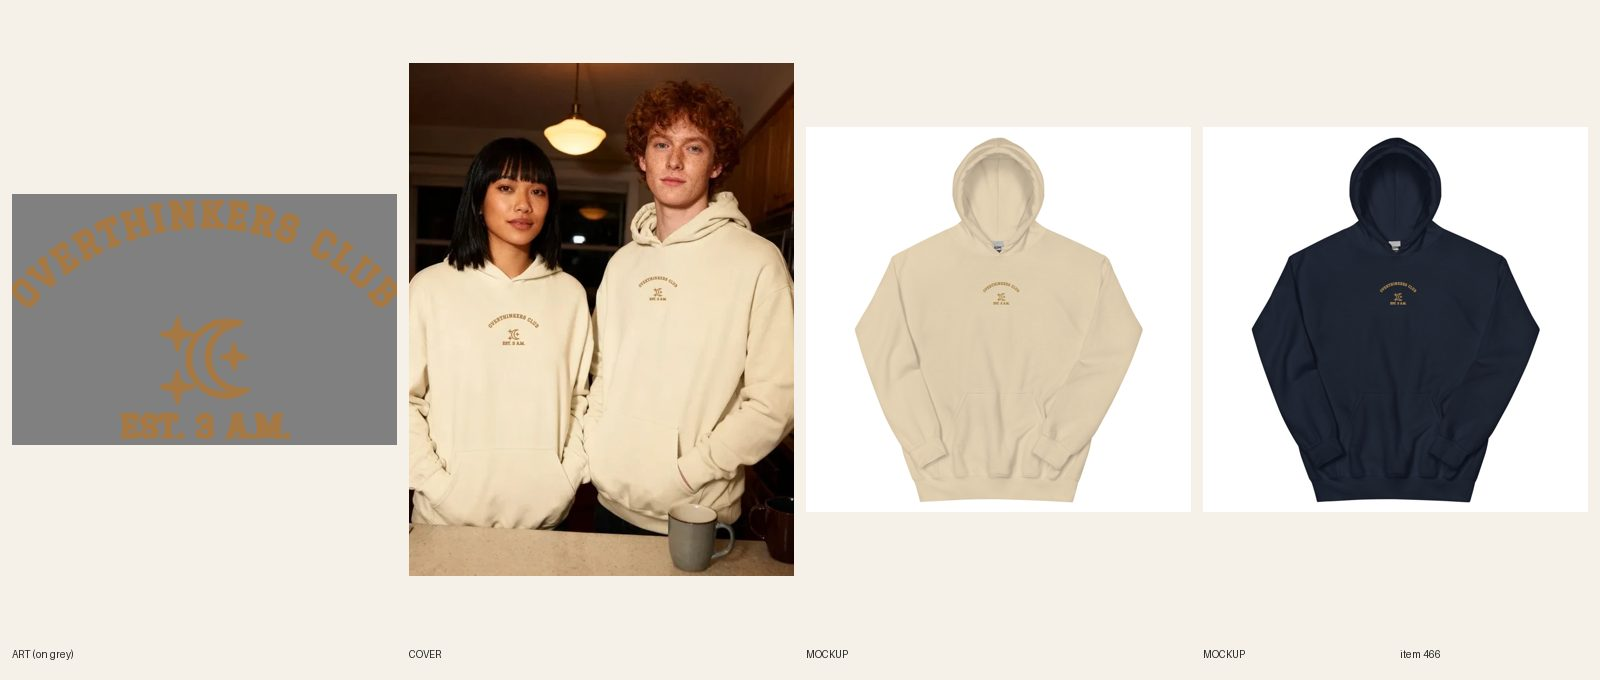
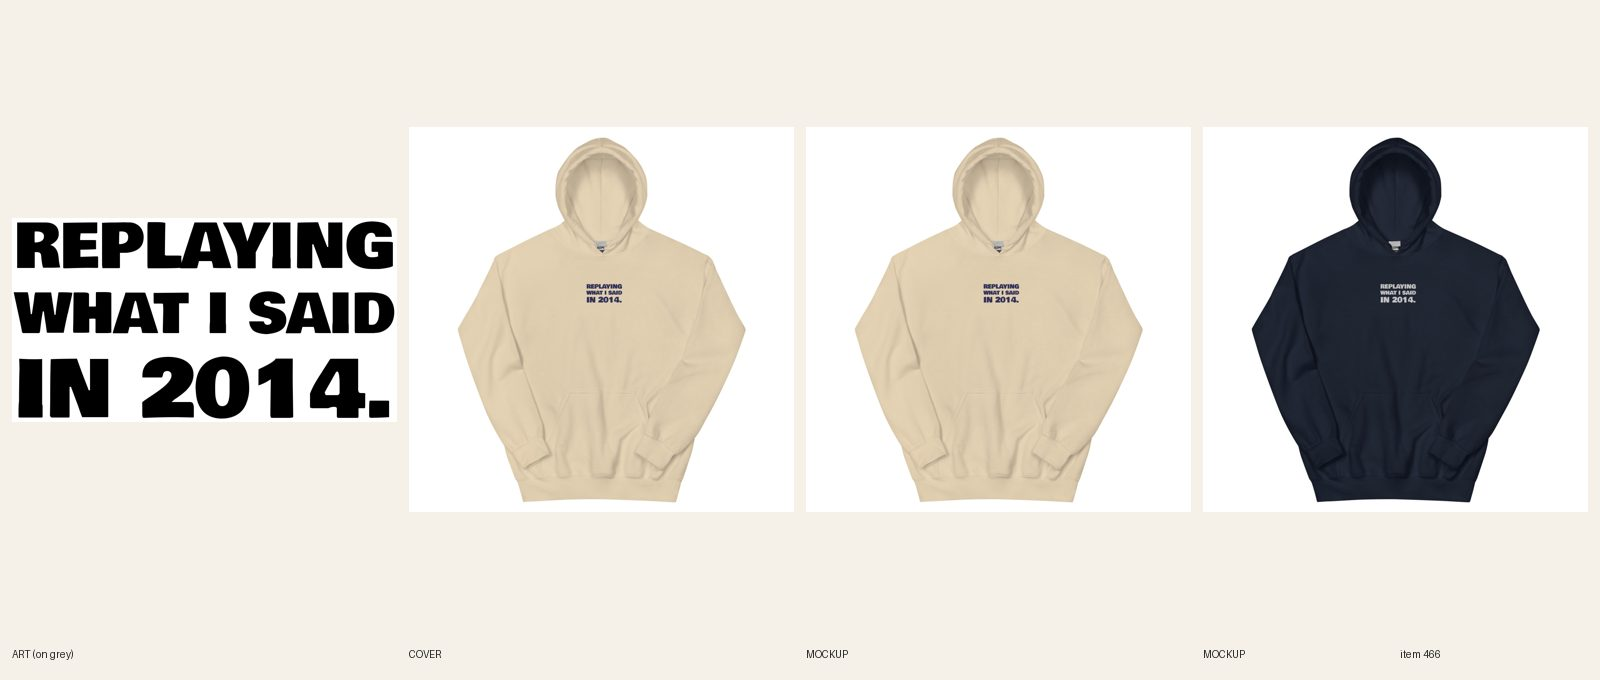
[E] review 466 redid #466 Unisex Embroidered hoodie (line + type: REPLAYING / WHAT I SAID / IN 2014., new stitched lettering, Sand navy thread + Navy white thread, 12/12 synced). REVIEW. fal $0.

Changed region(s): [[0.0, 0.0926, 0.5, 0.8647], [0.8438, 0.4015, 0.9062, 0.4632], [0.5938, 0.4015, 0.6562, 0.4632]]

diff --git a/docs/pipeline/466-embroidered-hoodie-overthinkers-club.md b/docs/pipeline/466-embroidered-hoodie-overthinkers-club.md
@@ -1,4 +1,4 @@
-status: REDO
+status: REVIEW
 lane: E
 type: new
 id: 466
@@ -35,3 +35,4 @@ kd: 30
 - 2026-10-18 00:29 UTC director: LIVE. Old-gold thread reads on Sand and Navy, embroidery shown at true scale on the cover, both people in hoodies. Keyword map entry moved under products (it sat at the top level, so the audit could not see it). ACTIVE + Online Store/Headless/Google & YouTube, audit PASS 0 warn.
 - 2026-10-18 09:30 UTC builder [B]: re-linked to the R4.8 file 1088770660 (EST. 3 A.M. 0.35 in caps, from #467), synced 12/12 on 482519619; Sand/Navy front + Sand back Shopify images replaced in place with new mockups. Cover not re-composited (old print visually the same at cover size). Stays ACTIVE.
 - 2026-10-18 17:22 UTC director: QUALITY RESET grade C (new line + type), REDO. The product stays ACTIVE (same handle, URL, title keyword). 1. Line (R3.12, quality-reset 'Lines'): "OVERTHINKERS CLUB / EST. 3 A.M.": Stock "club" line, widely sold; no surprise. Write 5 candidates, keep the one a stranger laughs at in 3 seconds without backstory; kill lines that only describe the picture; if none of the 5 is funny, PARK it. 2. Quality reset type bar (docs/backlog/quality-reset.md, 'The new bar'): headline at least 90% of the art width, heavy, colors pulled from the art; second line at least 45% of the headline's height, never a thin script on a dark or mid garment; use the lettering as a shape (arch, stacked lockup, words breaking into the art), not a plain bar above and a script line below; no font used on more than 1 in 6 of the last 30 designs. 3. Keep the art if it carries the new line, else one new illustration (R4/R5). New print means a new cover per R6.10, copy line one rewritten for the new joke (R8.3), and a fresh review sheet (R7.7). While quality-reset.md says PAUSED, only lane A builds, and only the samples step 2 names.
+- 2026-10-20 06:30 UTC builder [E]: REDO 466 (C grade, line + type) done in place (stays ACTIVE, handle unchanged; title now Unisex Embroidered – Replaying What I Said In 2014 Hoodie). 5 candidates: 'OVERTHINKERS CLUB / EST. 3 A.M.' (old, stock club); 'REPLAYING WHAT I SAID IN 2014.'; 'I SHOULD HAVE SAID SOMETHING ELSE'; 'NOT OVERTHINKING. REVIEWING.'; 'THINKING ABOUT IT AGAIN'. Kept REPLAYING / WHAT I SAID / IN 2014. (the 3 a.m. replay with a date as the punchline; no backstory needed). New stitched lettering only (no fal, $0): Bowlby One caps on three lines at equal 1010 px width, emb-prep 3.93 x 2.03 in (inside 4 x 4 in), thinnest stroke 2.71 mm, capitals about 0.5 in (min 0.3 in), no gradients, no texture. Thread per color: Sand #333366 (file 1090207873), Navy #FFFFFF (file 1090207885). Verified 12/12 on the new embroidery_chest_center file per color, back logo kept. Front + Sand back mockups replaced in place (pf-emb-mockup 1402/1403), alts, title, SEO, copy, FAQs rewritten (thread colors named from the mockups, moon and old gold removed). Phone-size read OK (small at 400 px by the 4 in limit, as #473). Cover: handle added to retired-covers.json (old cover shows old words). audit PASS 0 warn, build OK. Sheet docs/review/466.jpg. Sibling #467 crewneck (lane B REDO) should take the same line and these files (466 file ids above).

diff --git a/docs/intake-log.md b/docs/intake-log.md
@@ -1,4 +1,6 @@
 RUNNING lane C since 2026-10-20 06:30 UTC
+RUNNING director since 2026-10-20 06:16 UTC
+2026-10-20 06:30 UTC — [E] Builder run: redid #466 Unisex Embroidered hoodie (line + type: REPLAYING / WHAT I SAID / IN 2014., new stitched lettering, Sand navy thread + Navy white thread, 12/12 synced). REVIEW. fal $0.
 RUNNING helper since 2026-10-20 05:44 UTC
 2026-10-20 06:55 UTC — [D] Director run: inbox nothing new. 6 LIVE (cap): #358 #650 #221 #237 #246 #251, audit PASS. Reviewed 25 redos: 19 approved and held (5 stale titles fixed), 6 REDO (#341 #354 #436 #506 #536 #621). Builder card 7h sharpened (height never makes up for punch width). New lane B brief #716 farming shirt (5,400 / KD 33). No Telegram (digest not due, nothing needs Sam). Lock released.
 2026-10-20 06:20 UTC — [E] Builder run: redid #472 Unisex Embroidered crewneck (line + type: CIRCLE / BACK / NEVER., twin of #473 hoodie, Sand navy thread + Navy white thread, 12/12 synced). REVIEW. fal $0.
